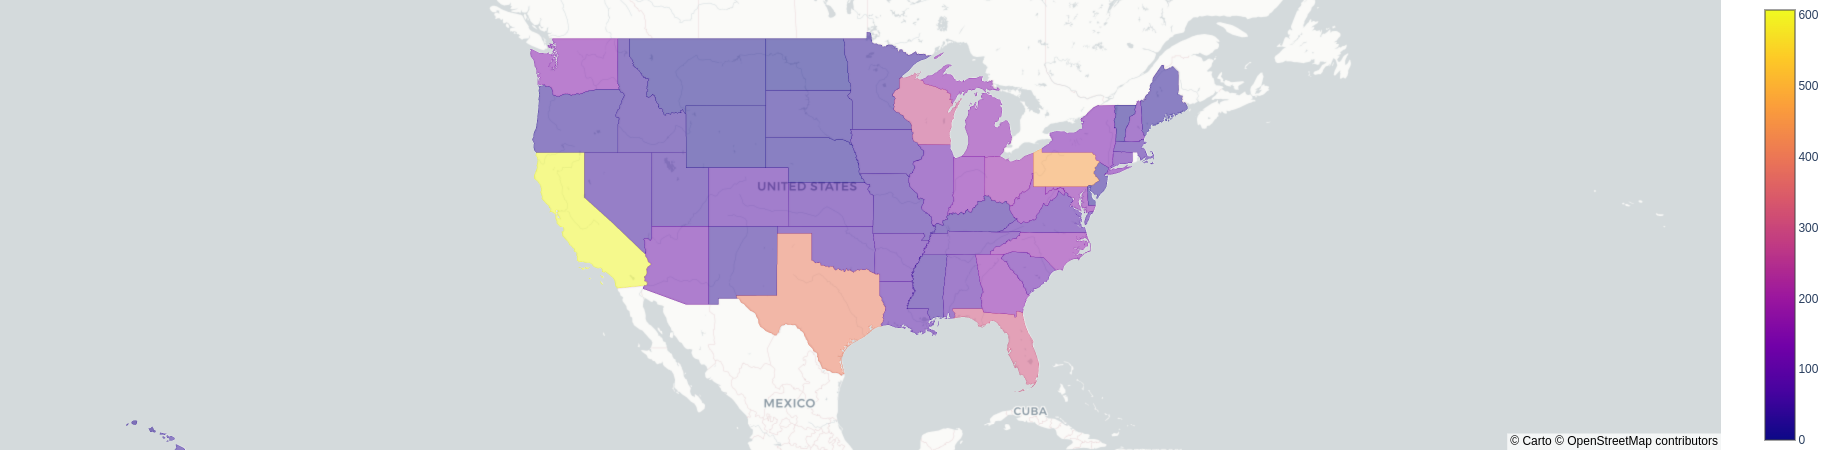
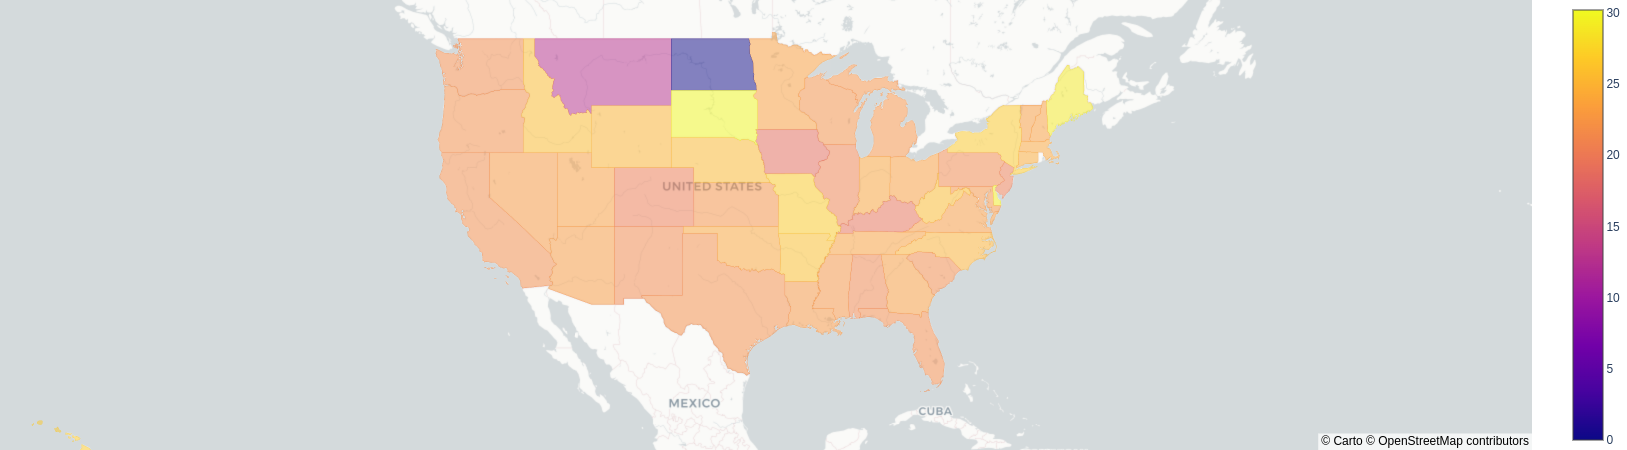
Fix Churn Rate plot and README markdown feature list format

diff --git a/README.md b/README.md
@@ -52,7 +52,7 @@ The full dataset I used has 26,259,199 rows and 18 columns. Each row represents 
  - `userId`: string, the unique id of a single user,
  - `sessionId`: long, unique id of a single session,
  - `gender`: string, gender of the user (M or F),
- - itemInSession: long, the cumulative number of items/pages viewed by the user in the session,
+ - `itemInSession`: long, the cumulative number of items/pages viewed by the user in the session,
  - `length`: double, length of a song item viewed,
  - `level`: string, level of subscription (paid or free),
  - `location`: string, location of the session with city and state
